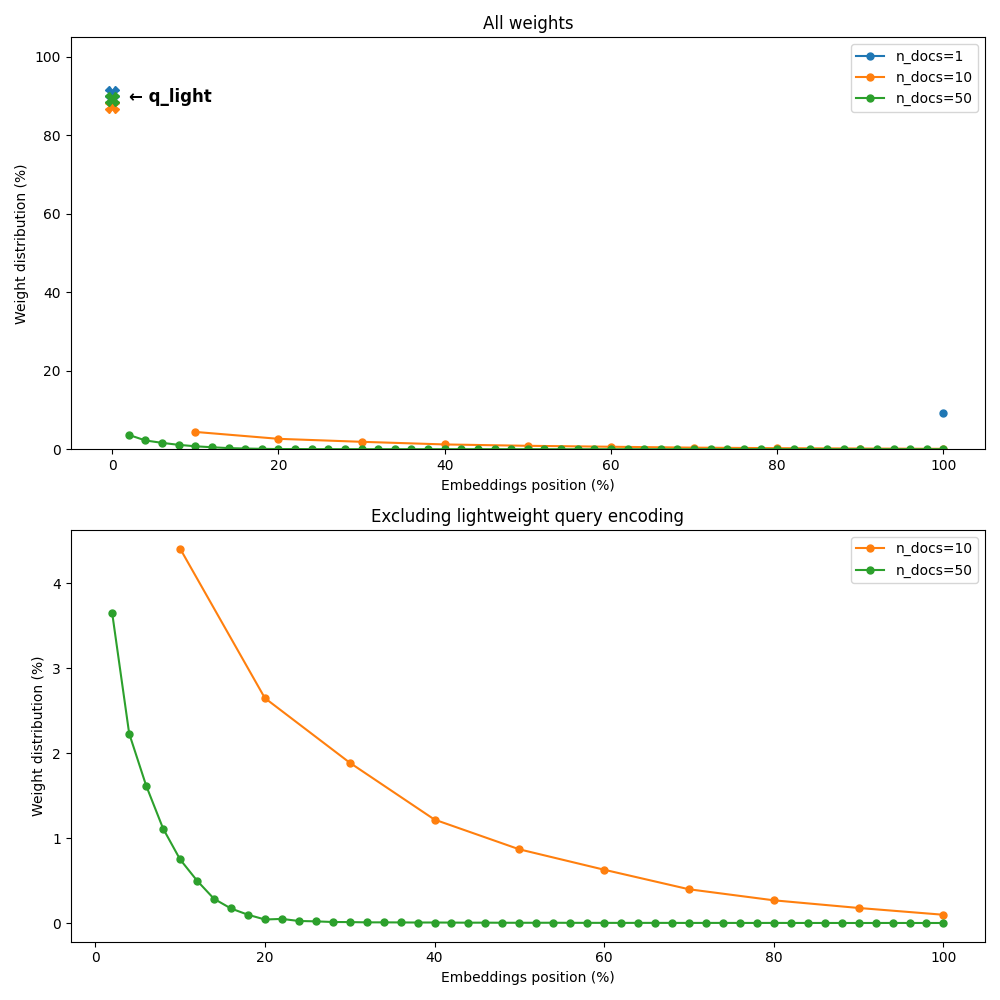
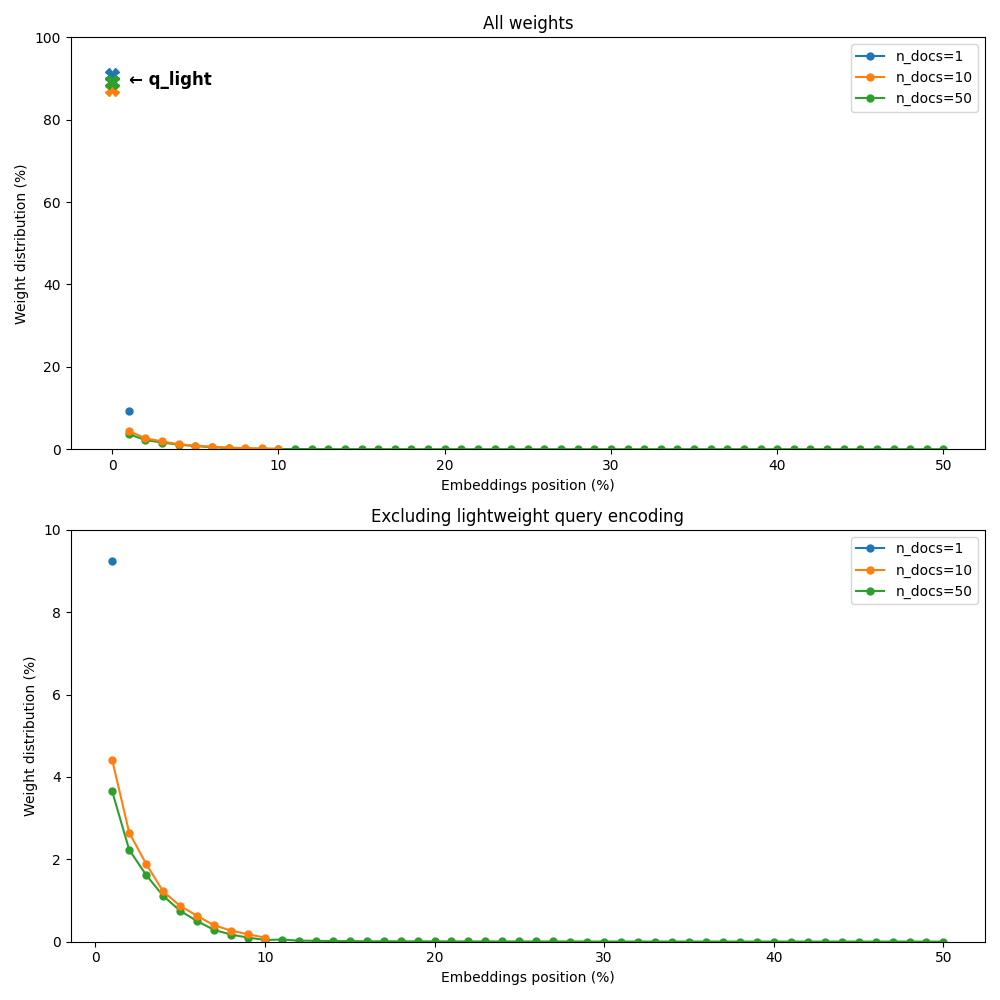
Update plot

diff --git a/plot_data/weights_per_n_docs.py b/plot_data/weights_per_n_docs.py
@@ -27,8 +27,9 @@ def plot(data: Dict[str, Any]):
         ax.set_ylabel('Weight distribution (%)')
     ax1.set_title('All weights')
     ax2.set_title('Excluding lightweight query encoding')
-    ax1.set_ylim(0, 105)
-    
+    ax1.set_ylim(0, 100)
+    ax2.set_ylim(0, 10)
+
     plt.subplots_adjust(hspace=0.3)
 
     # For each n_docs, plot the weights of the embeddings as a line plot with dots. The first element should be left and the last should be right.
@@ -36,32 +37,28 @@ def plot(data: Dict[str, Any]):
         n_docs = data[i]["n_docs"]
         weights = data[i]["weights"]
 
-        # Normalize weights
-        weights_normalized = np.array(weights)
-        weights_normalized = weights_normalized / np.sum(weights_normalized) * 100
+        # # Normalize weights
+        weights = np.array(weights) * 100
 
-        # Normalize x-axis values
-        x_values = np.linspace(0, 100, len(weights_normalized))
+        # Use index for x-axis values
+        x_values = np.arange(len(weights))
 
         # Plot the first element separately
-        ax1.plot(x_values[0], weights_normalized[0], marker='X', color=f"C{(i % 9)}", markersize=10)
+        ax1.plot(x_values[0], weights[0], marker='X', color=f"C{(i % 9)}", markersize=10)
         if i == 0:
-            ax1.text(x_values[0] + 2, weights_normalized[0] - 1, '← q_light', fontsize=12, verticalalignment='center', fontweight='bold')
+            ax1.text(x_values[0] + 1, weights[0] - 1, '← q_light', fontsize=12, verticalalignment='center', fontweight='bold')
 
         # Plot the rest of the elements
-        ax1.plot(x_values[1:], weights_normalized[1:], marker='.', color=f"C{(i % 9)}", label=f"n_docs={n_docs}", markersize=10)
+        ax1.plot(x_values[1:], weights[1:], marker='.', color=f"C{(i % 9)}", label=f"n_docs={n_docs}", markersize=10, zorder=len(data) - i)
 
         # Ignore the first element and normalize
         weights_ignored = weights[1:]
-        weights_ignored = np.array(weights_ignored)
-        weights_ignored = weights_ignored / np.sum(weights_ignored) * 100
 
-        # Normalize x-axis values
-        x_values_ignored = np.linspace(0, 100, len(weights_ignored))
+        # Use index for x-axis values
+        x_values_ignored = np.arange(1, len(weights_ignored) + 1)
 
-        # Plot just the document weights, excluding n_docs=1
-        if n_docs != 1:
-            ax2.plot(x_values[1:], weights_normalized[1:], marker='.', color=f"C{(i % 9)}", label=f"n_docs={n_docs}", markersize=10)
+        # Plot just the document weights, excluding q_light
+        ax2.plot(x_values_ignored, weights_ignored, marker='.', color=f"C{(i % 9)}", label=f"n_docs={n_docs}", markersize=10, zorder=len(data) - i)
 
     for ax in [ax1, ax2]:
         ax.legend()
